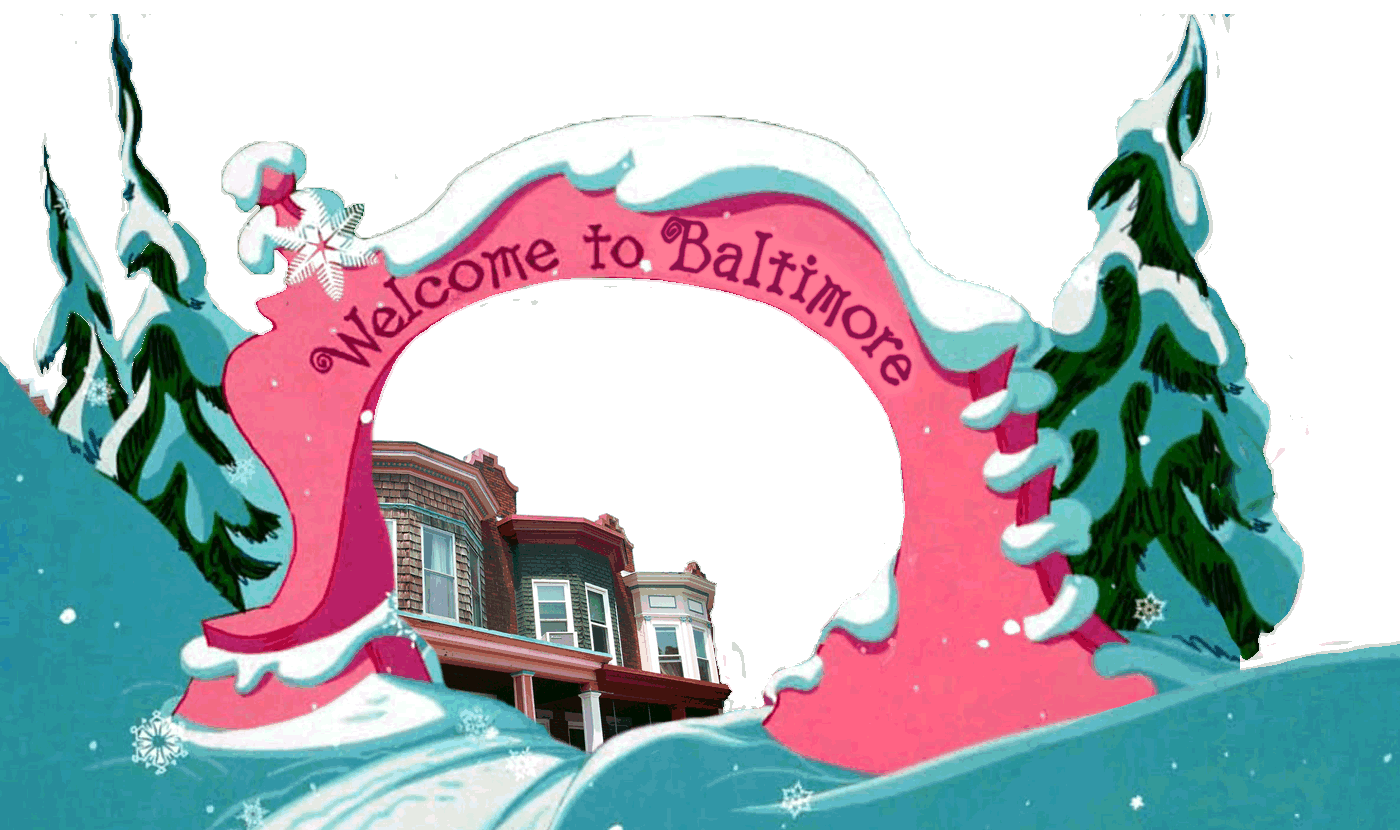
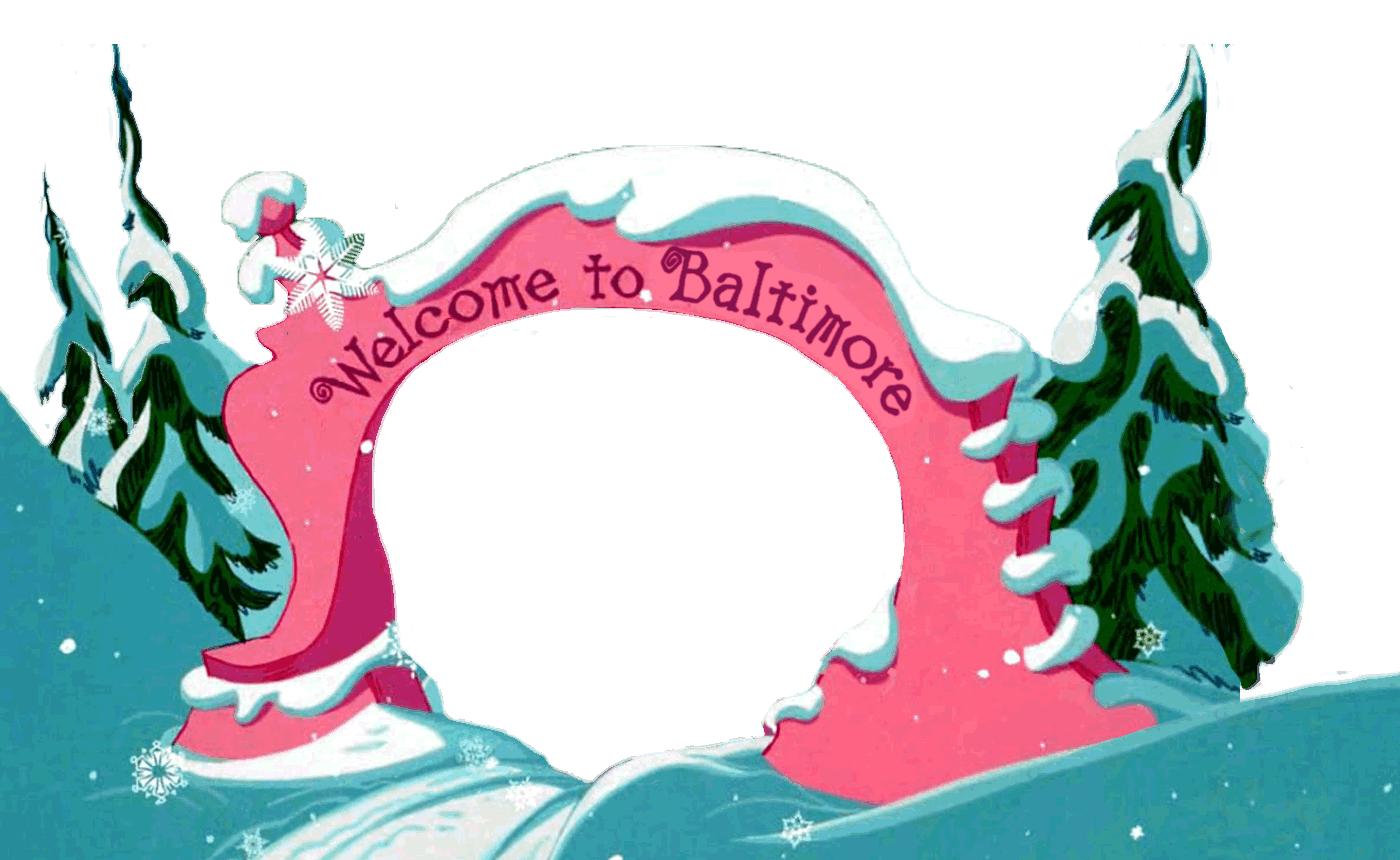
updated gate and motion tweaks

diff --git a/js/main.js b/js/main.js
@@ -261,20 +261,20 @@ window.onload = function() {
 			{id:document.getElementById("ledge"), start:2.15, end:2.3, x: 0, y:-354, type:"translate"},
 			{id:document.getElementById("grinch"), start:2.15, end:2.3, x: 0, y: -696, type:"translate"},
 			{id:document.getElementById("max"), start:2.15, end:2.3, x: 0, y:-354, type:"translate"},
-			{id:document.getElementById("ledge"), start:2.5, end:2.65, x: 700, y:-500, type:"translate"},
-			{id:document.getElementById("grinch"), start:2.5, end:2.65, x: 700, y: -500, type:"translate"},
-			{id:document.getElementById("max"), start:2.50, end:2.65, x: 700, y:-500, type:"translate"},
-			{id:document.getElementById("lights"), start:2.6, end:2.8, x: 800, y:-1000, type:"translate"},
+			{id:document.getElementById("ledge"), start:2.5, end:2.63, x: 700, y:-500, type:"translate"},
+			{id:document.getElementById("grinch"), start:2.5, end:2.63, x: 700, y: -500, type:"translate"},
+			{id:document.getElementById("max"), start:2.50, end:2.63, x: 700, y:-500, type:"translate"},
+			{id:document.getElementById("lights"), start:2.6, end:2.8, x: 0, y:-800, type:"translate"},
 			{id:document.getElementById("textbox3"), start: 2.55, end: 2.6, x: 1, y: 0, type:"opacity"},
 			{id:document.getElementById("textbox3"), start: 2.8, end: 2.85, x: -1, y: 0, type:"opacity"},
-			{id:document.getElementById("back-row-houses"), start:2.6, end:2.75, x: -30, y:-670, type:"translate"},
-			{id:document.getElementById("front-row-houses"), start:2.6, end:2.75, x: 50, y:-400, type:"translate"},
-			{id:document.getElementById("lawn-ornaments"), start:2.6, end:2.75, x: -40, y:-380, type:"translate"},
-			{id:document.getElementById("back-row-houses"), start:2.8, end:2.9, x: 0, y:-30, type:"translate"},
-			{id:document.getElementById("front-row-houses"), start:2.8, end:2.9, x: 0, y:-40, type:"translate"},
-			{id:document.getElementById("lawn-ornaments"), start:2.8, end:2.9, x: 0, y:-35, type:"translate"},
-			{id:document.getElementById("lights"), start:2.8, end:2.9, x: 0, y:-20, type:"translate"},
-			{id:document.getElementById("gate"), start:2.8, end:2.9, x: 0, y:-850, type:"translate"}
+			{id:document.getElementById("back-row-houses"), start:2.63, end:2.8, x: -30, y:-670, type:"translate"},
+			{id:document.getElementById("front-row-houses"), start:2.63, end:2.78, x: 50, y:-400, type:"translate"},
+			{id:document.getElementById("lawn-ornaments"), start:2.63, end:2.8, x: -40, y:-380, type:"translate"},
+			{id:document.getElementById("back-row-houses"), start:2.9, end:2.99, x: 0, y:-30, type:"translate"},
+			{id:document.getElementById("front-row-houses"), start:2.9, end:2.99, x: 0, y:-40, type:"translate"},
+			{id:document.getElementById("lawn-ornaments"), start:2.9, end:2.99, x: 0, y:-35, type:"translate"},
+			{id:document.getElementById("lights"), start:2.9, end:2.99, x: 0, y:-20, type:"translate"},
+			{id:document.getElementById("gate"), start:2.78, end:2.99, x: 0, y:-850, type:"translate"}
 		
 		],
 		

diff --git a/css/main.css b/css/main.css
@@ -179,12 +179,12 @@ div.animation { position: relative; margin: 2% 10%; width: 1050px; height: 100%;
 #near-cliff  { position:absolute; height: 3187px; width: 588px; background: url('../img/scene2/near-cliff.png') no-repeat  0; right:0; top:0;  }
 #far-cliff { position: absolute; height:3169px; width: 745px; background: url('../img/scene2/far-cliff.png') no-repeat 0 0; right: 0px; top:0; }
 #ledge { position: absolute; width: 626px; height: 952px; background: url('../img/scene2/ledge.png') no-repeat 0 0; right:0px; bottom: -1100px; }
-#lights { position: absolute; width: 1400px; height: 900px; background: url('../img/scene2/lights.png') no-repeat 0 0; left:-820px; bottom:-810px;}
+#lights { position: absolute; width: 1400px; height: 900px; background: url('../img/scene2/lights.png') no-repeat 0 0; left:-100px; bottom:-900px; opacity: .7;}
 #textbox3 { position: absolute; top: 4.4%; left: 50%; margin-left: -177px; width: 354px; height: 325px; background: url('../img/scene2/textbox3.png') no-repeat; opacity: 0; }
 #back-row-houses { position: absolute; width: 1399px; height: 770px; background: url('../img/scene2/back-row-houses.png') no-repeat 0 0; left: 80px; bottom: -770px; }
 #front-row-houses  { position: absolute; width: 831px; height: 508px; background: url('../img/scene2/front-row-houses.png') no-repeat 0 0; left: -50px; bottom: -477px; }
 #lawn-ornaments { position: absolute; width: 1235px; height: 380px; background: url('../img/scene2/lawn-ornaments.png') no-repeat 0 0; right: -165px; bottom: -380px; }
-#gate { position: absolute; width: 1400px; height: 830px; background: url('../img/scene2/gate.png') no-repeat 0 0;left:0; bottom: -850px; }
+#gate { position: absolute; width: 1400px; height: 860px; background: url('../img/scene2/gate.png') no-repeat 0 0;left:0; bottom: -870px; }
 
 #grinch { position:absolute;  background: url('../img/scene2/grinch.png') no-repeat; bottom:-696px; right:0px; }
 #grinch.grinch1 { width: 399px; height: 696px; background-position: -0px -1414px; }
